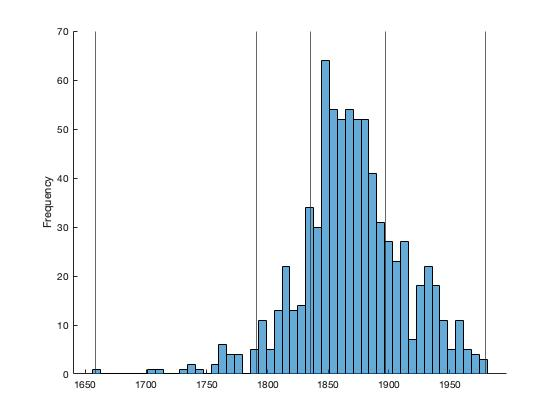
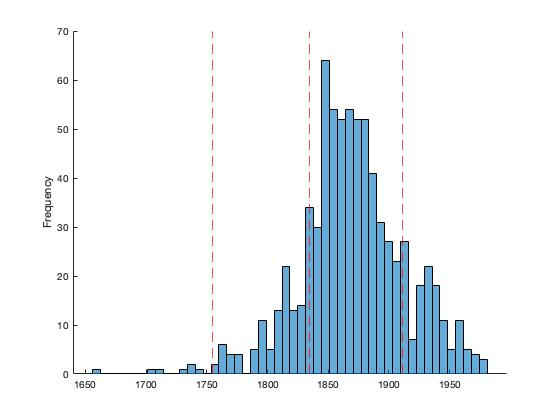
A lot of plots

diff --git a/HA3/main.m b/HA3/main.m
@@ -55,7 +55,7 @@ lambdas_est = lambdas(burn_in:end, :);
 breakpoints_est=matrix_breakpoints(burn_in:end,:);
 %% Task 2c
 % Plot and save images for d=2,3,4,5, burn_in=1 for lambda
-d=5;
+d=2;
 rho=0.05;
 burn_in=1;
 M=10000;
@@ -67,9 +67,12 @@ for i=1:d
     str=['Lambda: ' num2str(i)]
     plot(lambdas_est(:, i),'DisplayName',str)
 end
-title(['Nbr breakpoints: ' num2str(d-1)])
+%title(['Nbr breakpoints: ' num2str(d-1)])
 hold off
 legend show
+
+%%
+
 %% Plots
 d=5;
 rho=0.05;
@@ -80,15 +83,15 @@ figure;
 hold on
 histogram(T, 50)
 ylabel("Frequency")
-for i=1:d+1
+for i=2:d
     %xline(breakpoints_est(1,i), 'r--');
 
-    xline(breakpoints_est(end,i));
+    xline(breakpoints_est(end,i), 'r--');
 end
 hold off
 
 %% Plot breakpoint trajectory, be careful abou notation
-d=5;
+d=4;
 rho=0.05;
 burn_in=1;
 M=10000;
@@ -124,14 +127,17 @@ mean_theta = zeros(len,1);
 var_theta = zeros(len,1)
 mean_lambda = zeros(len,d);
 var_lambda = zeros(len,d);
-for rho=1:len
-    [theta_est, lambda_est,~, ~ ]=main_script(d,T,rho,burn_in, M, rho);
-    mean_theta(rho)=mean(theta_est);
-    var_theta(rho) = var(theta_est);
-    mean_lambda(rho, :) = mean(lambda_est)';
-    var_lambda(rho, :) = var(lambda_est);
+for psi=1:len
+    [theta_est, lambda_est, breakpoints, ~ ]=main_script(d,T,psi,burn_in, M, rho);
+    mean_breakpoints(psi,:) = mean(breakpoints);
+    var_breakpoints(psi,:) = var(breakpoints);
+
+    mean_theta(psi)=mean(theta_est);
+    var_theta(psi) = var(theta_est);
+    mean_lambda(psi, :) = mean(lambda_est)';
+    var_lambda(psi, :) = var(lambda_est);
 end
-%%
+%% Posterior theta and t
 figure;
 plot(psi_x, mean_theta, 'bo')
 xlabel("\psi")	
@@ -143,7 +149,28 @@ plot(psi_x, var_theta, 'bo')
 xlabel("\psi")	
 ylabel("Variance \theta")	
 set(gca,'FontSize',14)
-%%
+
+figure;
+hold on
+for k = 2:d
+    str = ['Breakpoint: ' num2str(k-1)];
+    plot(psi_x,mean_breakpoints(:,k), 'o','DisplayName', str);
+end
+xlabel("\psi")	
+ylabel("Mean breakpoint position")
+hold off
+legend show
+figure;
+hold on
+for k = 2:d
+    str = ['Breakpoint: ' num2str(k-1)];
+    plot(psi_x,var_breakpoints(:,k), 'o','DisplayName', str);
+end
+xlabel("\psi")	
+ylabel("Variance breakpoint position")
+hold off
+legend show
+%% Posterior lambda
 figure;
 hold on
 for i=1:d
@@ -172,20 +199,28 @@ legend show
 %% 2e change rho and plot acceptance probability
 d=5;
 burn_in=100;
-M=1000;
+M=10000;
 rho_x=0.001:0.001:0.1;
 len = length(rho_x);
 mean_acceptance = zeros(len,1);
 var_acceptance = zeros(len,1);
+psi=2;
 
-for rho=1:len
-    [theta_est, lambda_est, ~, accepted_vector_est]=main_script(d,T,rho,burn_in, M, rho);
-    mean_acceptance(rho)=mean(accepted_vector_est);
-    var_acceptance(rho) = var(accepted_vector_est);
+for i=1:len
+    [theta_est, lambda_est, breakpoints, accepted_vector_est]=main_script(d,T,psi,burn_in, M, rho_x(i));
+    mean_acceptance(i)=mean(accepted_vector_est);
+    var_acceptance(i) = var(accepted_vector_est);
+    mean_breakpoints(i,:) = mean(breakpoints);
+    var_breakpoints(i,:) = var(breakpoints);
+
+    mean_theta(i)=mean(theta_est);
+    var_theta(i) = var(theta_est);
+    mean_lambda(i, :) = mean(lambda_est)';
+    var_lambda(i, :) = var(lambda_est);
 
 end
 
-%%
+%% ATC
 figure;
 plot(rho_x, mean_acceptance, 'bo')
 xlabel("\rho")
@@ -198,6 +233,63 @@ xlabel("\rho")
 ylabel("Variance ACR")
 set(gca,'FontSize',14)
 
+%% Breakpoints t
+figure;
+hold on
+for k = 2:d
+    str = ['Breakpoint: ' num2str(k-1)];
+    plot(rho_x,mean_breakpoints(:,k), 'o','DisplayName', str);
+end
+xlabel("\rho")	
+ylabel("Variance breakpoint position")
+hold off
+legend show
+
+figure;
+hold on
+for k = 2:d
+    str = ['Breakpoint: ' num2str(k-1)];
+    plot(rho_x,var_breakpoints(:,k), 'o','DisplayName', str);
+end
+xlabel("\rho")	
+ylabel("Variance breakpoint position")
+hold off
+legend show
+%% Lambdas
+figure;
+hold on
+for k = 1:d
+    str = ['Lambda: ' num2str(k)];
+    plot(rho_x,mean_lambda(:,k), 'o','DisplayName', str);
+end
+xlabel("\rho")	
+ylabel("Mean lambda positions")
+hold off
+legend show
+
+figure;
+hold on
+for k = 1:d
+    str = ['Lambda: ' num2str(k)];
+    plot(rho_x,var_lambda(:,k), 'o','DisplayName', str);
+end
+xlabel("\rho")	
+ylabel("Variance lambda positions")
+hold off
+legend show
+
+%% Thetas
+figure;
+plot(rho_x, mean_theta, 'bo')
+xlabel("\rho")
+ylabel("Mean theta")
+set(gca,'FontSize',14)
+
+figure;
+plot(rho_x, var_theta, 'bo')
+xlabel("\rho")
+ylabel("Variance theta")
+set(gca,'FontSize',14)
 
 %% Useful functions
 % Calculates nbr of event between breakpoints returns the full vector for
@@ -284,6 +376,8 @@ function [accepted, ret] = MH_algorithm(lambdas_k, breakpoints, tau, rho)
     % Start by copying the old breakpoints to next step since only a
     % fraction of them will update.
     % Main for loop, go through all breakpoints and propose new ones.
+     accepted = 0;
+
     for i=2:length(breakpoints)-1
       suggested_breakpoints = breakpoints;
       % Propose a random walk for each breakpoint
@@ -295,11 +389,10 @@ function [accepted, ret] = MH_algorithm(lambdas_k, breakpoints, tau, rho)
       % Calculate acceptance by draw from uniform and compare with
       % acceptance rate.
        % If accepted, update breakpoint to the proposed one
-        accepted = 0;
       alpha = unifrnd(0,1);
       if alpha <= acceptance_probability
           breakpoints = suggested_breakpoints;
-          accepted = 1;
+          accepted = accepted+1;
       end
     end
     ret = breakpoints;
@@ -330,7 +423,7 @@ function [theta_est, lambdas_est, breakpoints_est, accepted_vector_est]=main_scr
         % Draw lambdas Gibbs
         lambdas(k+1,:) = sample_lambdas(T, thetas(k+1), breakpoints, d);
     end
-    accepted_vector_est = accepted_vector(burn_in:end);
+    accepted_vector_est = (accepted_vector(1:end))/d;
     theta_est=thetas(burn_in:end);
     lambdas_est = lambdas(burn_in:end, :);
     breakpoints_est=matrix_breakpoints(burn_in:end,:);
